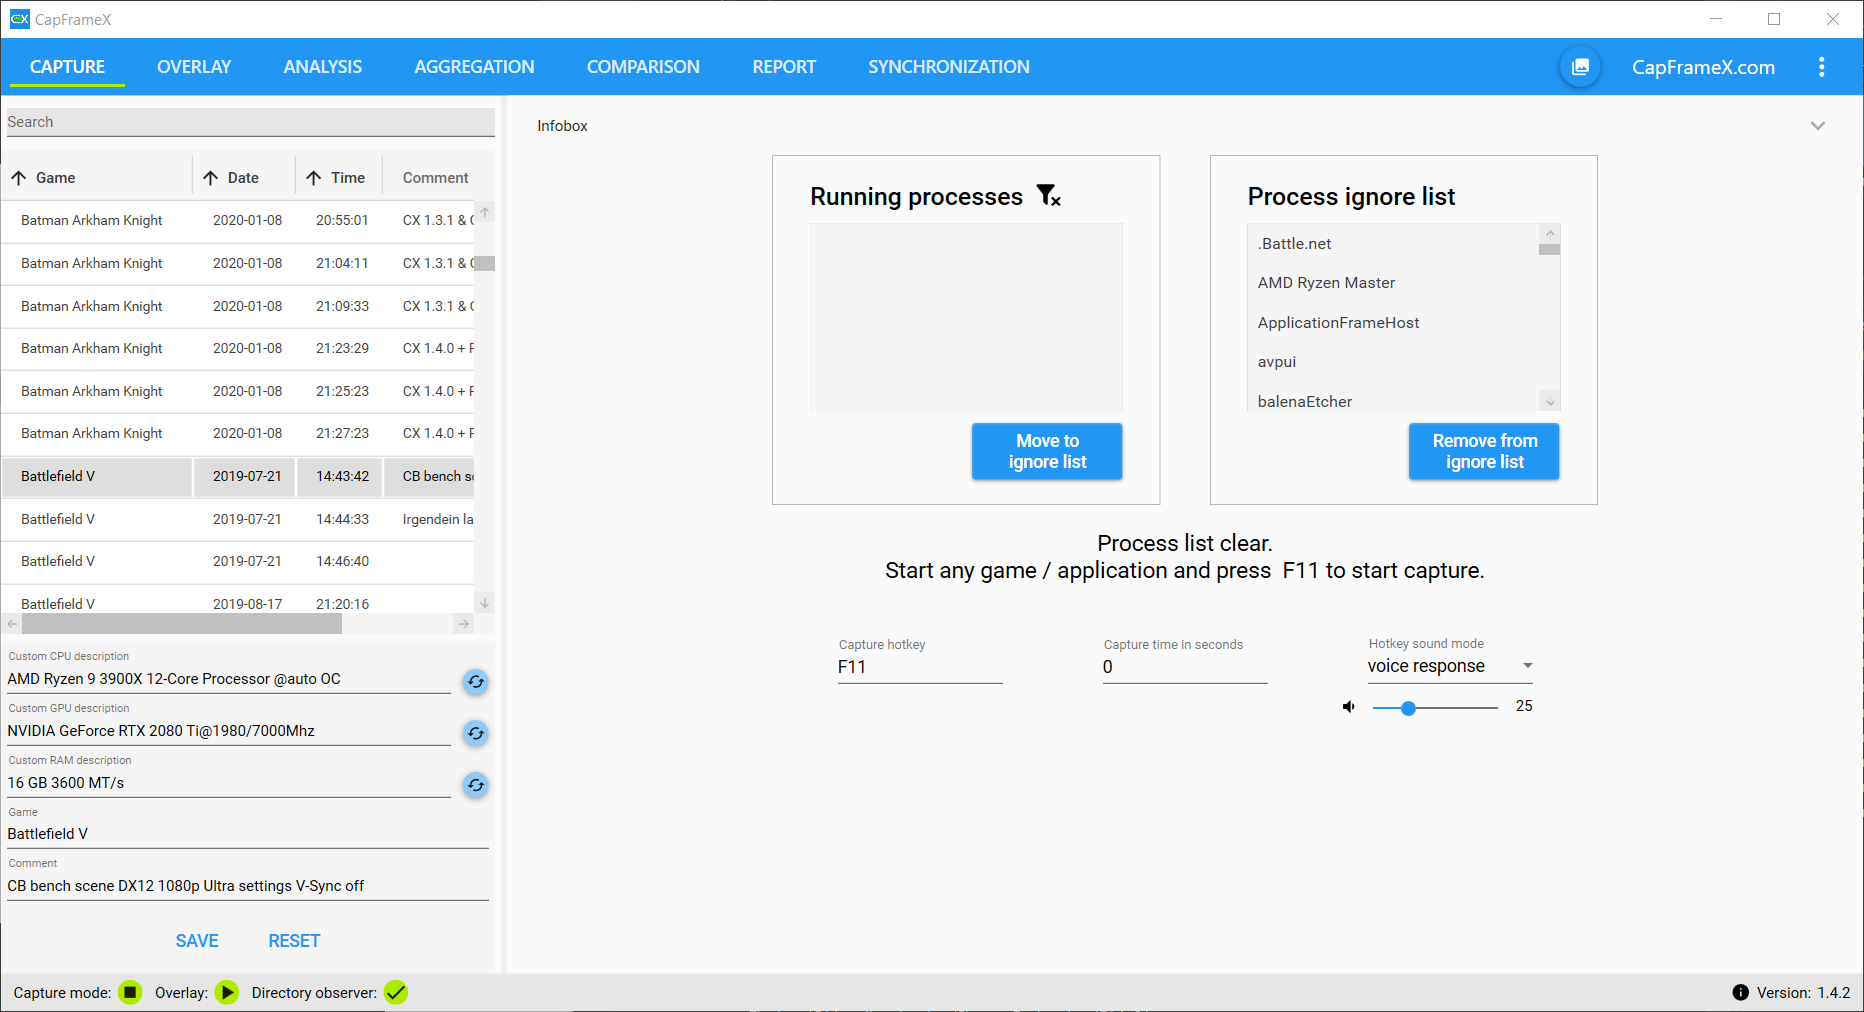
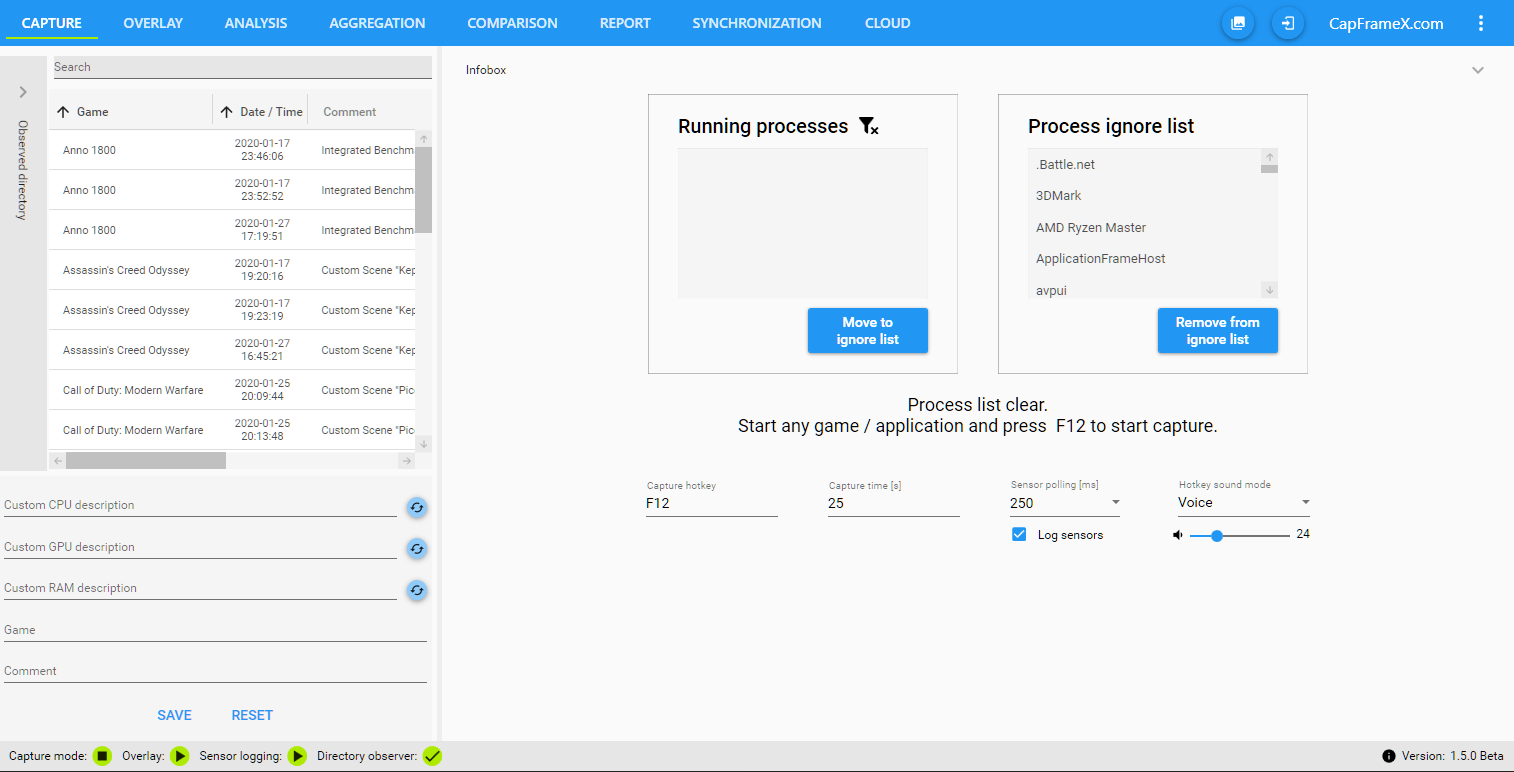
edit readme

diff --git a/README.md b/README.md
@@ -28,12 +28,15 @@ Download link: https://github.com/DevTechProfile/CapFrameX/releases
 ![Screenshot](Images/06_comparison_bar.png)
 ![Screenshot](Images/07_comparison_graph.png)
 
-# Synchronization (G-Sync, FreeSync, Input lag)
+# Synchronization (Input lag)
 ![Screenshot](Images/09_sync_DT.png)
 ![Screenshot](Images/10_sync_IL.png)
 
 # Report table (Excel)
 ![Screenshot](Images/08_report.png)
+
+# Cloud
+![Screenshot](Images/11_cloud.png)
 
 # Instruction manual
 Learn how to use CapFrameX.
@@ -44,26 +47,32 @@ This list is always located at the left section, regardless of the view you're c
 It constantly observes the output directory so every capture will show up here as soon as the capture has finished.
 This also includes every OCAT or PresentMon capture you put into that directory.
 
-At the bottom of that list you can see and change the CPU, GPU and RAM description and add a custom comment to every capture.
-Also you can edit the game name, since the process name is used as default. This gets saved in a textfile that is being compared with a list we update with every new version of CapFrameX to add new games that aren't already on your list. 
+Changing directories:  
+To change the directory, use the expander on the left where you can select your main folder by double clicking on the address line and get a tree view of all subfolders within that main folder.
+Throgh the right click context menu you can create or delete folders directly in the tree view and also open any selected folder in explorer. You can also move record files to other folders through the context menu in the record list itself.
+
+Changing record info:  
+At the bottom of the record list you can see and change the CPU, GPU and RAM description and add a custom comment to every capture.
+Also you can edit the game name, since the process name is used as default. 
+This gets saved in a process list file that is being compared with a list we update on every new version of CapFrameX to add new games that aren't already on your list. 
 
 ## Global Navigation Bar
-Located at the top
-Contains all the different views, a screenshot button, a direct link to the CX github page and an options menu. 
+Located at the top  
+Contains all the different views, a screenshot button, a login button(for additional cloud services), a direct link to the CX website and an options menu. 
 The screenshot button takes a screenshot of the current view excluding the record list.
 
 ## Options
+![Screenshot](Images/01_global_options.png)
 * Moving average window size = The number of frames that are used for the average line in the frametime chart.(Analysis View)
-* Stuttering factor = The factor a frametime has to be above average to be counted as stutter.(Analysis View)
-* Observed directory = The directory in which your captures are saved and also where you can put your OCAT/PresentMon captures.
 * FPS values rounding digits = The number of decimals for the FPS values
+* Stuttering factor = The factor a frametime has to be above average to be counted as stutter.(Analysis View)
 * Screenshot directory = The directory in which your screenshots are saved.
 * Hardware info source = What will be written into the capture file as your CPU, GPU and RAM config.  
   Automatic detection: What's delivered by the system  
   Custom description: What you write into the text boxes below  
 
 ## Capture view
-Here you can set your capture hotkey, the capture time(0=unlimited) and the response sounds.  
+Here you can set your capture hotkey, the capture time(0=unlimited), choose if and how precise you want to log sensor data(like CPU/GPU load and power) and set the hotkey response sounds.  
 An info text always informs you what's going on with the capture service and also tells you what to do in certain situations.
 For more detailed information about the capture events, you can take a look into the infobox which can be expanded from the top.
 
@@ -72,37 +81,42 @@ The process you want to capture has to be present in the "Running processes" lis
 
 For the easiest way of just getting into a game and pressing the hotkey to start a capture, this list may only contain one single process, otherwise the service won't know which process you want captured.
 If you have more than one process detected, you can still select the one you want and capturing will work just fine.
-However you wouldn't want to tab out of your game to do this. This is where the ignore list comes into play.
+However you wouldn't want to tab out of your game to do this. This is where our ignore list comes into play.
 
-With the arrow buttons you can add or remove any process from the ignore list, the ideal scenario is a completely empty running processes list at the start of CapFrameX.
+With the buttons below the two lists you can add or remove any process from the ignore list, the ideal scenario is a completely empty running processes list at the start of CapFrameX.
 With this, you can just start your game and since it'll be the only process in the list, just push the hotkey.
 
-The ignore list already includes many of the most common processes and, just like the list for the game names, gets updated with our ignore list with every new Version of CapFrameX.
-
-## Analysis View
-This is where you can analyse the captures you made one by one.
-
-For the graphs you can choose between frametime graphs, FPS graphs and L-shapes.  
-Below that you have your performance parameters like min, max, avg and percentiles on the left.  
-On the right you have two tabs, the first one is a pie chart which shows the amount of time you had stuttering (frametimes above 2.5x average(default)), the second one is a diagramm where you can see how many frames were below or above specific FPS thresholds.  
-At the bottom is a toolbar where you can change the performance parameters, remove unusual outliers from the graphs and activate a range slider.  
-On the very right of the page, there is also a "System info" expander which shows all the HW and SW information available for the selected benchmark.
+The ignore list entries are drawn from the same process list that contains your game names, which gets updated with our own list on every new Version of CapFrameX.
 
 ## Overlay view
 Contains the settings for the items displayed in the OSD aswell as the settings for a run history and the aggregation function.  
 
 Left side  
 Overlay items list where you can set the items you want to see in the OSD and change their order by Drag&Drop. Items with the same group name will be displayed within a single line.
-Overlay hotkey to show or hide CX items in OSD. This doesn't hide RTSS completely like the Afterburner hotkey does. If you have AB or any other App that uses RTSS running together with CX, only CX items will disappear.  
-
+Three profiles to save different overlay configurations.
+Overlay hotkey to show or hide CX items in OSD. This doesn't hide RTSS completely like the Afterburner hotkey does. If you have AB or any other App that uses RTSS running together with CX, only CX items will disappear.
 Right side  
-Run history to set a number of runs for which you get a simple analysis directly in the OSD. If the history is full, any additional run will replace the oldest one.  
+Run history to set a number of runs for which you get a simple analysis directly in the OSD. If the history is full, any additional run will replace the oldest one.    
 Aggregation to combine the runs in the history to a single record file once the history is full, while marking outliers within the history.  
 This doesn't take the calculated performance parameters of each record file and calculates an average out of them. It takes the raw frametimes of each record file and puts them into a new file, calculating every parameter based on that set of frametimes.  
-
-Aggregation outlier handling: A full history is checked for outliers using the median of a selectable metric and an also selectable percentage value. From there you can choose between two modes:  
-	"Mark & use": Outliers are marked, but all runs will be used for the aggregation.  
+Aggregation outlier handling: A full history is checked for outliers using the median of a selectable metric and an also selectable percentage value.
+	"Mark & use": Outliers are marked, but all runs will be used for the aggregation.
 	"Mark & replace": If outliers exist, you have to do additional runs to replace them. Aggregation triggers when you have a full history without outliers. 
+
+## Analysis view
+This is where you can analyse the captures you made one by one.
+
+For the graphs you can choose between frametime graphs, FPS graphs and L-shapes.
+Below that you have your performance parameters like min, max, avg and percentiles on the left.  
+On the right you have three tabs, the first one is a pie chart which shows the amount of time you had stuttering (frametimes above 2.5x average(default)), the second one is a diagramm where you can see how many frames were below or above specific FPS thresholds.
+If you chose to log sensor data for a record, two additional options are enabled: You can see the min, avg and max values of various sensors over the course of the benchmark as well as adding additional graphs to show you CPU and GPU load directly in the frametime chart.  
+At the bottom is a toolbar where you can change the performance parameters, toggle the additional sensor data graphs, remove unusual outliers from the graphs and activate a range slider.
+On the very right of the page, there is also a "System info" expander which shows all the HW and SW information available for the selected benchmark.
+
+## Aggregation view
+Here you can manually aggregate records that were already saved.
+Add them to the list and set the metrics you want to be displayed as well as the outlier handling options.
+Outliers will be marked red and you can choose to unclude or exclude them for the aggregation. On aggregation you'll see a simple result line and a new record file is created containing all the frametime data of the aggregated records.
 
 ## Comparison View
 Here you can compare multiple records.  
@@ -110,9 +124,8 @@ With a double-click from the record list you can add the captures to the compari
 
 The first tab shows you the records as bar charts.  
 If you compare records from just a single game, this game is set as a title above the diagramm. If you compare records from multiple games, the names are labeled on the bars.
-In addition you have an adjustable context for each record.  
-At the bottom is a toolbar where you can change the sorting and adjust the displayed metrics aswell as the context.  
-
+In addition you have two adjustable contexts that are set as labels for each record.
+At the bottom is a toolbar where you can change the sorting and adjust the displayed metrics aswell as the contexts.  
 The "Grouping" toggle switches between two sorting modes:  
 off-> all records are sorted by FPS  
 on-> records are sorted by game, then by FPS  
@@ -142,17 +155,29 @@ This manual is also available through the context menu.
 This is a simple view where you can add your records to see all the relevant parameters all at once. You can also just copy them with a right-click to add them into any other programm. This is also possible for the graphs and performance parameters in the single record view.
 
 ## Synchronization view
-This view shows you the quality of your synchronization methods like FreeSync or G-Sync as well as an approximated input lag analysis. 
+This view shows you an approximated input lag analysis as well as some other synchronization details. 
 
-Tab "Display changed times" 
-If sync methods are working properly, the lines for "frametimes" and "Display changed times" should align pretty well, this means your monitor works at the adaptive refresh rate of your GPU.  
-Below the Graph you can see two percentage values. The first one shows the correlation of frame- and display time, the second one shows the amount of frames within valid sync range(that you can enter next to it).  
-At the bottom you can see the distribution of the refresh times and beside it another pie chart which shows the number of dropped frames.  
+Tab "Approximated input lag"
+Using various data from PresentMon, we can give a fairly accurate approximation on the input lag. Note, that this doesn't include the additional latency from your mouse/keyboard or your monitor.
+For that we've included an offset that you can set yourself depending on your hardware.
+This input lag is shown in the graph and in the distribution below as well as a small bar chart for the upper and lower bounds as well as the expected input lag. 
 
-Tab "Approximated input lag"  
-Using various data from PresentMon, we can give a fairly accurate approximation on the input lag.  
-Note, that this doesn't include the additional latency from your mouse/keyboard or your monitor. For that we've included a box where you can type in an offset based on your hardware. We've chosen 10ms as the default.  
-This input lag is shown in the graph and in the distribution below as well as a small bar chart for the average and pecentile values.  
+Tab "Until displayed times" 
+The chart shows the times when a frame was successfully sent to the monitor and being displayed.
+Below the Graph you can see the amount of frames within valid sync range of your monitor(that you can enter next to it).  
+At the bottom you can see the distribution of the until displayed times and beside it another pie chart which shows the number of dropped frames.
+
+## Cloud view
+In this view you can upload an download records to easily share them with others.
+
+To upload records, add them to the upload list and click the upload button. Once the upload is complete, you'll get an ID that others can use to download your records in the download section below.
+To download records, just add the ID and click the download button.
+
+If you log in before the uploads, you can see all your uploads and IDs on capframex.com. 
+The optional description next to the upload button is to name your upload to easily find them on the website. It doesn't have any effect if you're not logged in.
+
+If you activated the proces list options on the right, new game names you add and new processes you ignore can be automatically added to our online list and your own list can be synced with that online list so that you always get the latest entries.
+This doesn't affect any processes you already have on your list. If our online list contains the same process as yours but with a different game name, your entry will not be changed. The same goes for the ignored status of a process.
 
 ## Export options (context menu)
 * Analysis: frametime values (f), frametime points (t, f(t)), FPS values, quantiles
@@ -161,6 +186,7 @@ This input lag is shown in the graph and in the distribution below as well as a 
 
 # Requirements
 * .NET 4.7.2
+* Microsoft Visual C++ Redistributable Package
 
 # Build requirements
 * MS Visual Studio 2019 only (Community Edition)
@@ -169,6 +195,6 @@ This input lag is shown in the graph and in the distribution below as well as a 
 * WiX Toolset and VS Extension: http://wixtoolset.org/releases/
 
 # Dev roadmap
-* logging CPU and GPU usage to make them available as additional graphs
+* Enhancements (new RTSS overlay features, second comparison context)
 
 
